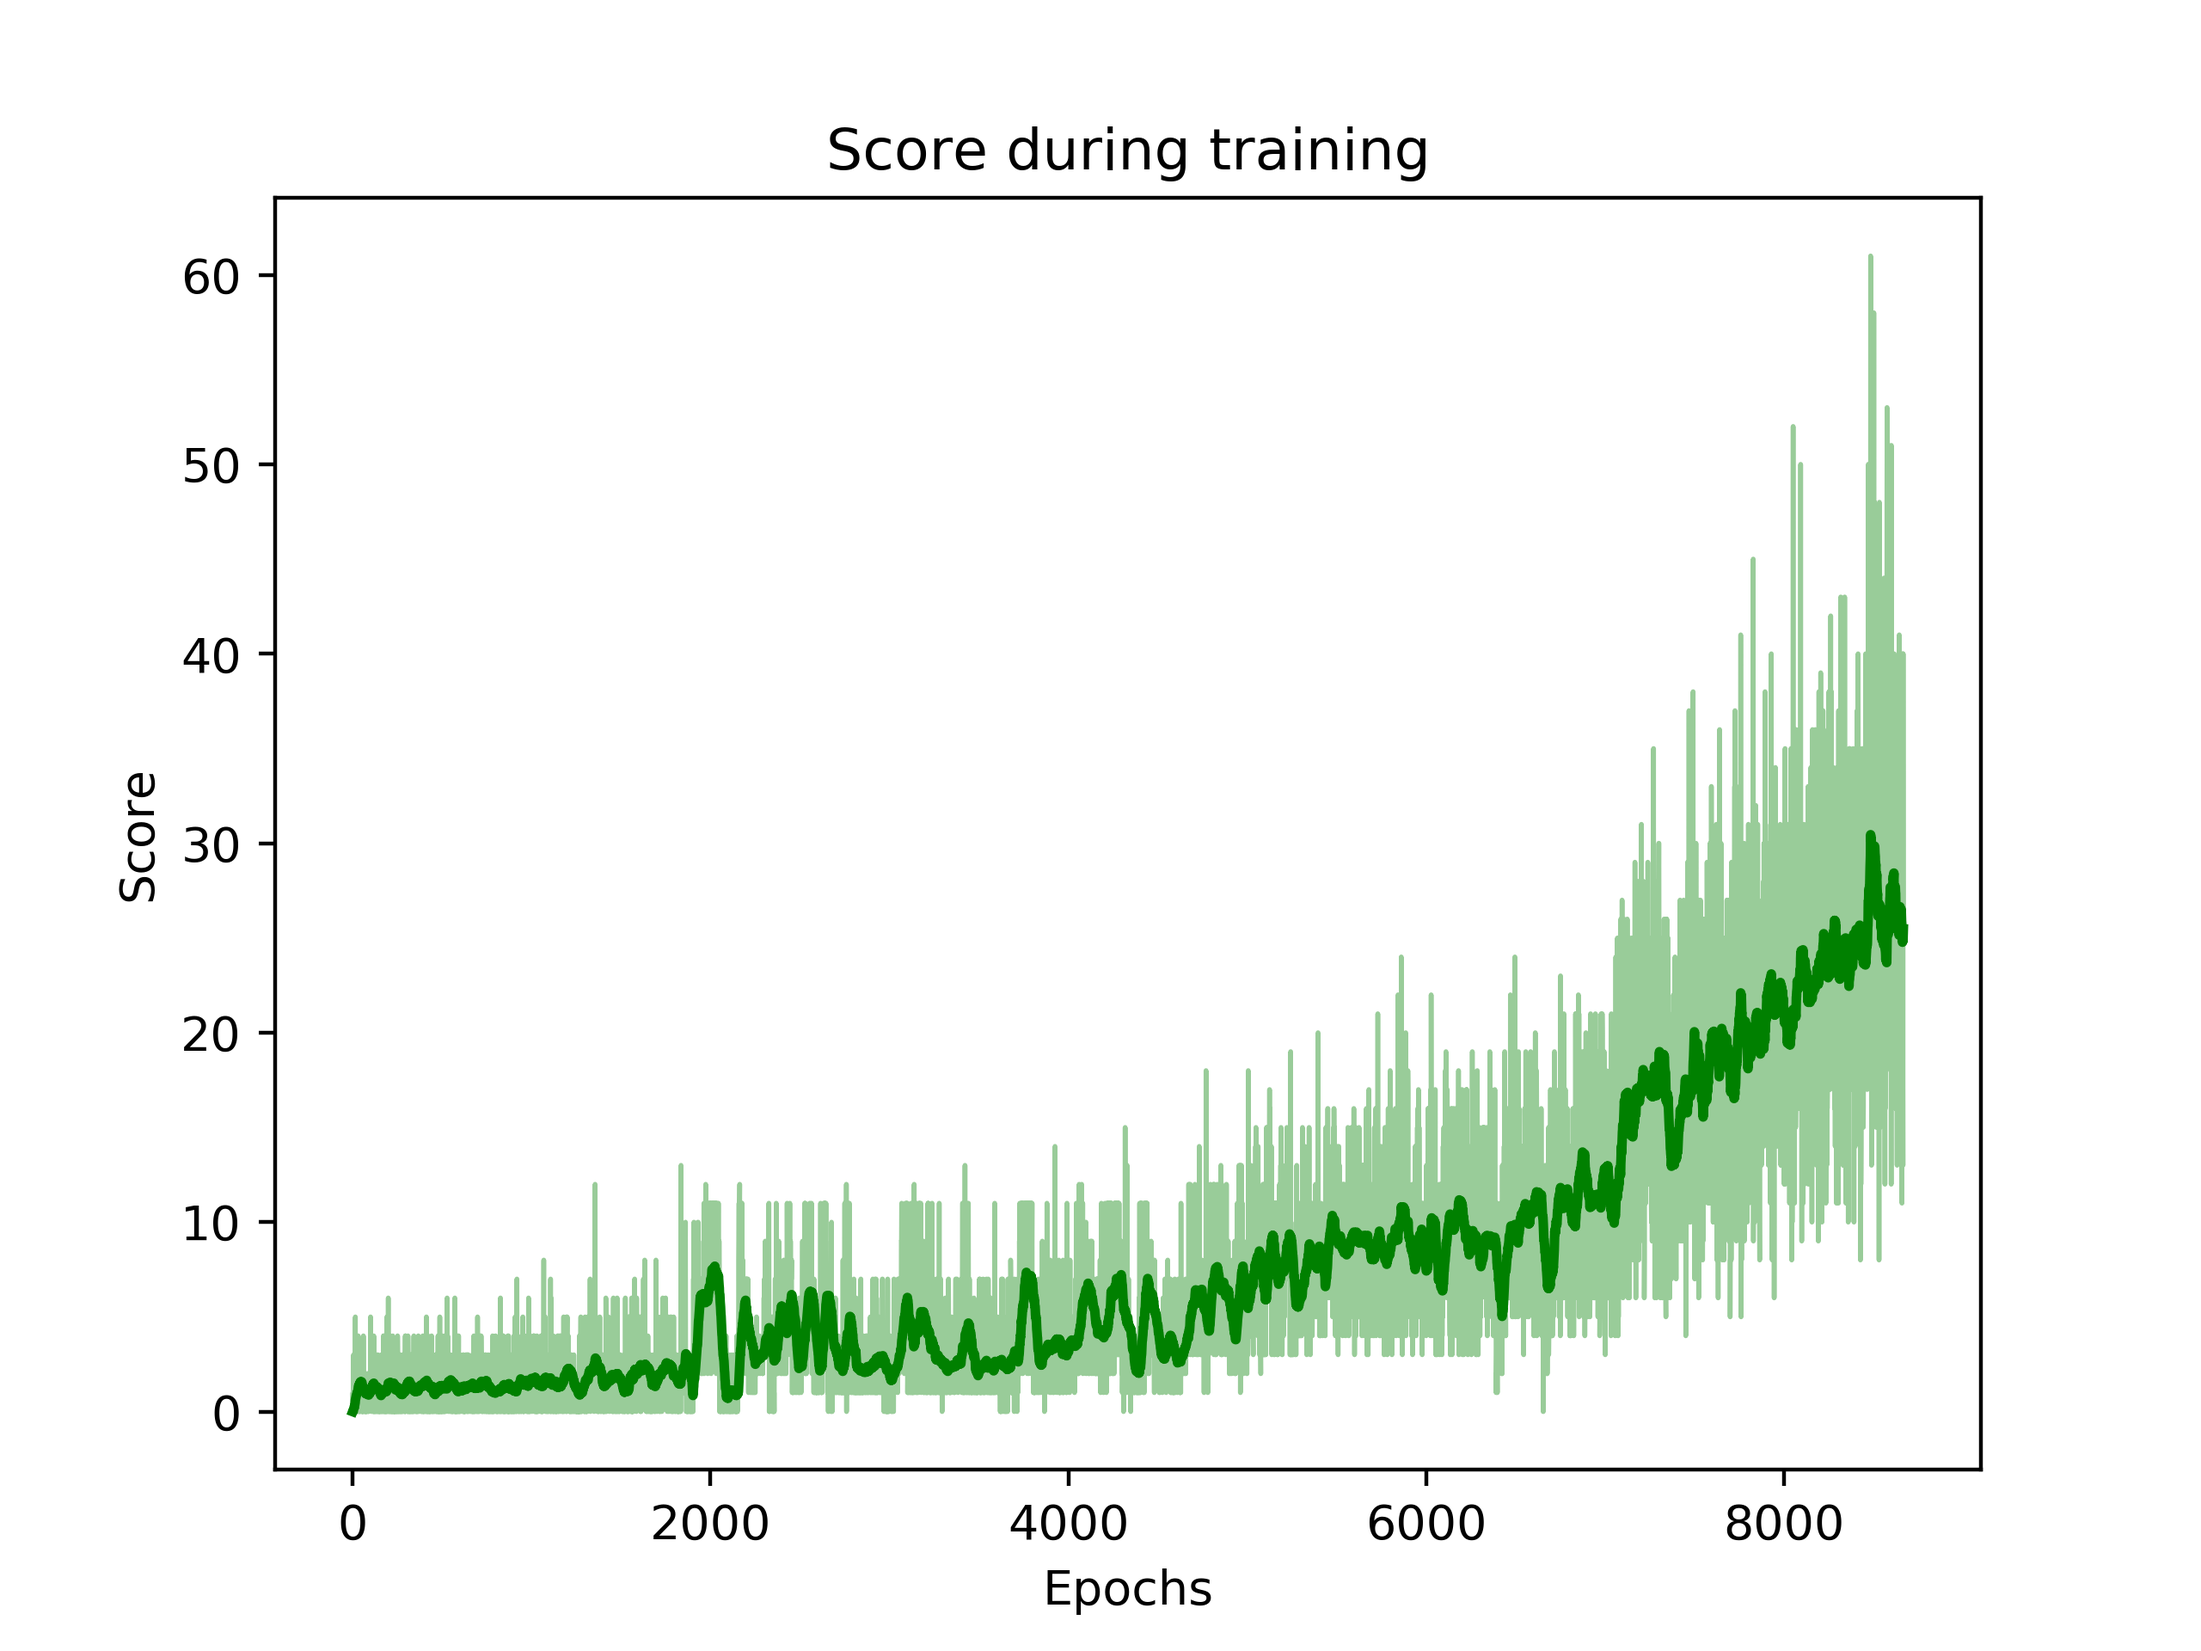
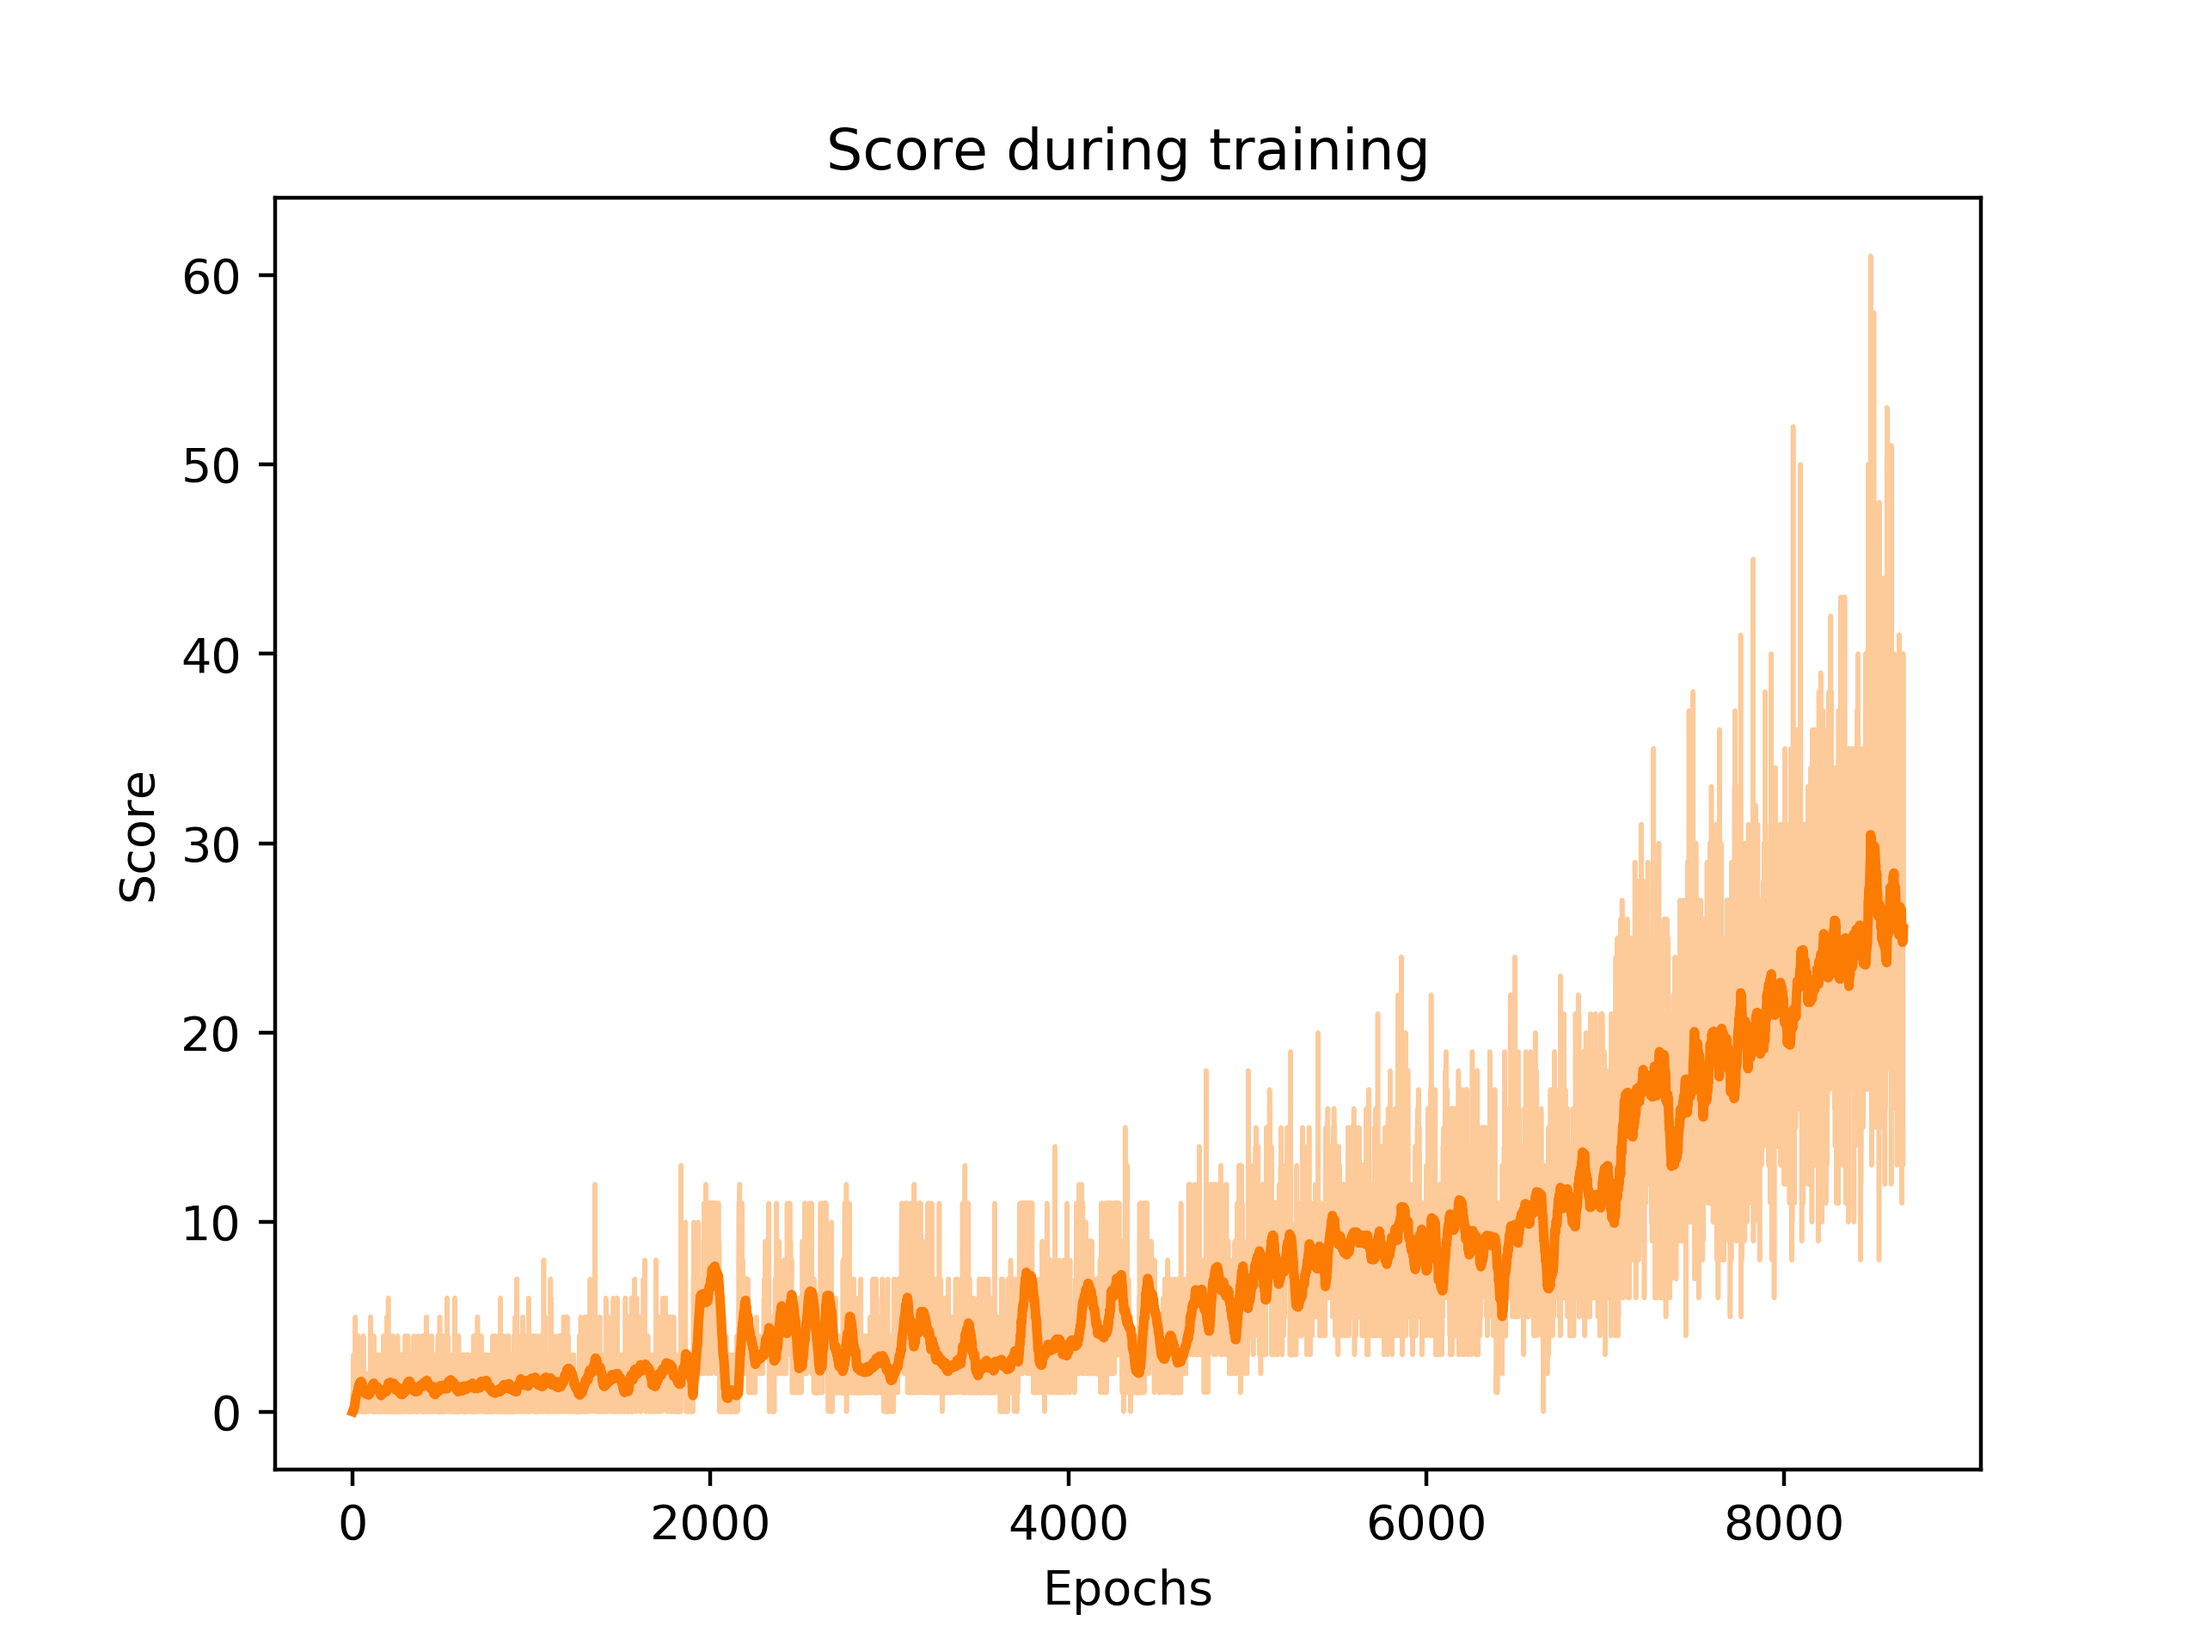
Added compare graph

Changed region(s): [[0.1562, 0.1875, 0.875, 0.875]]

diff --git a/result_bar_graph.py b/result_bar_graph.py
@@ -1,0 +1,84 @@
+import pandas as pd
+import numpy as np
+import matplotlib.pyplot as plt
+from scipy.signal import lfilter
+
+def autolabel(rects):
+    for rect in rects:
+        height = rect.get_height()
+        ax.annotate('{}'.format(height),
+                    xy=(rect.get_x() + rect.get_width() / 2, height-0.5),
+                    xytext=(0, 3),
+                    textcoords="offset points",
+                    ha='center', va='bottom')
+
+# Training data
+log_file_path = './log_training/'
+log_files = ['log_part1.txt', 'log_part2.txt', 'log_part3.txt', 'log_part4.txt', 'log_part5.txt']
+
+line_count = 0
+epochs = []
+score = []
+epoch_counter = 0
+random_counter = 0
+max_train_score = []
+for log in log_files:
+    random_counter = 0
+    with open(log_file_path+log) as file:
+        line = file.readline()
+        while line:
+            line = line.replace("\n","")
+            fields = line.split(',')
+            if line_count and random_counter == 319:
+                epochs.append(epoch_counter)
+                score.append(int(float(fields[1])))
+                epoch_counter += 1
+            else:
+                line_count += 1
+                random_counter += 1
+            line = file.readline()
+    max_train_score.append(max(score))    
+    line_count = 0
+
+print(max_train_score)
+
+# Testing data
+training_hours = [5, 7, 18, 22, 37]
+folders_names = ['after_5h/', 'after_7h/', 'after_18h/', 'after_22h/', 'after_37h/']
+
+test_score = []
+max_test_score = []
+for folder in folders_names:
+    with open('./agent_progress/'+folder+'log_test.txt') as file:
+        line = file.readline()
+        while line:
+            line = line.replace("\n","")
+            fields = line.split(',')
+            if line_count:
+                test_score.append(int(float(fields[1])))
+            else:
+                line_count += 1
+            line = file.readline()
+    max_test_score.append(max(test_score))    
+    line_count = 0
+    
+print(max_test_score)
+
+# Graph
+labels = ['5h', '7h', '18h', '22h', '37h']
+x = np.arange(len(labels))
+width = 0.35
+fix, ax = plt.subplots()
+rects1 = ax.bar(x-width/2, max_train_score, width, label='Train', color='k', alpha=0.8)
+rects2 = ax.bar(x+width/2, max_test_score, width, label='Test', color='#fc7b03', alpha=0.9)
+
+ax.set_ylabel('Scores')
+ax.set_title('Max games scores after hours of training')
+ax.set_xticks(x)
+ax.set_xticklabels(labels)
+autolabel(rects1)
+autolabel(rects2)
+ax.legend()
+plt.savefig(log_file_path+'score_compare.png', dpi=400)
+plt.show()
+

diff --git a/training_graph.py b/training_graph.py
@@ -34,8 +34,8 @@ b = [1.0 / n] * n
 a = 1
 score_filtered = lfilter(b,a,score)
 
-plt.plot(epochs, score, linewidth=1, linestyle="-", c="g", alpha=0.4)        
-plt.plot(epochs, score_filtered, linewidth=2, linestyle="-", c="g") 
+plt.plot(epochs, score, linewidth=1, linestyle="-", c="#fc7b03", alpha=0.4)        
+plt.plot(epochs, score_filtered, linewidth=2, linestyle="-", c="#fc7b03") 
 plt.title('Score during training')
 plt.ylabel('Score')
 plt.xlabel('Epochs')

diff --git a/README.md b/README.md
@@ -15,4 +15,5 @@ Agent progress during testing (training after 5h, 7h, 18h, 22h and 37h):
 
 <img src="https://github.com/m-milena/atari_rl/blob/master/agent_progress/after_5h/openaigymvideo017368video000000.gif" width="150"><img src="https://github.com/m-milena/atari_rl/blob/master/agent_progress/after_7h/openaigymvideo017750video000000.gif" width="150"><img src="https://github.com/m-milena/atari_rl/blob/master/agent_progress/after_18h/openaigymvideo018058video000000.gif" width="150"><img src="https://github.com/m-milena/atari_rl/blob/master/agent_progress/after_22h/openaigymvideo017066video000000.gif" width="150"><img src="https://github.com/m-milena/atari_rl/blob/master/agent_progress/after_37h/openaigymvideo016807video000000.gif" width="150">
 
-
+Comparison between maximum training score and maximum testing score in different training time is shown below:
+<img src="https://github.com/m-milena/atari_rl/blob/master/log_training/score_compare.png" width="600">
